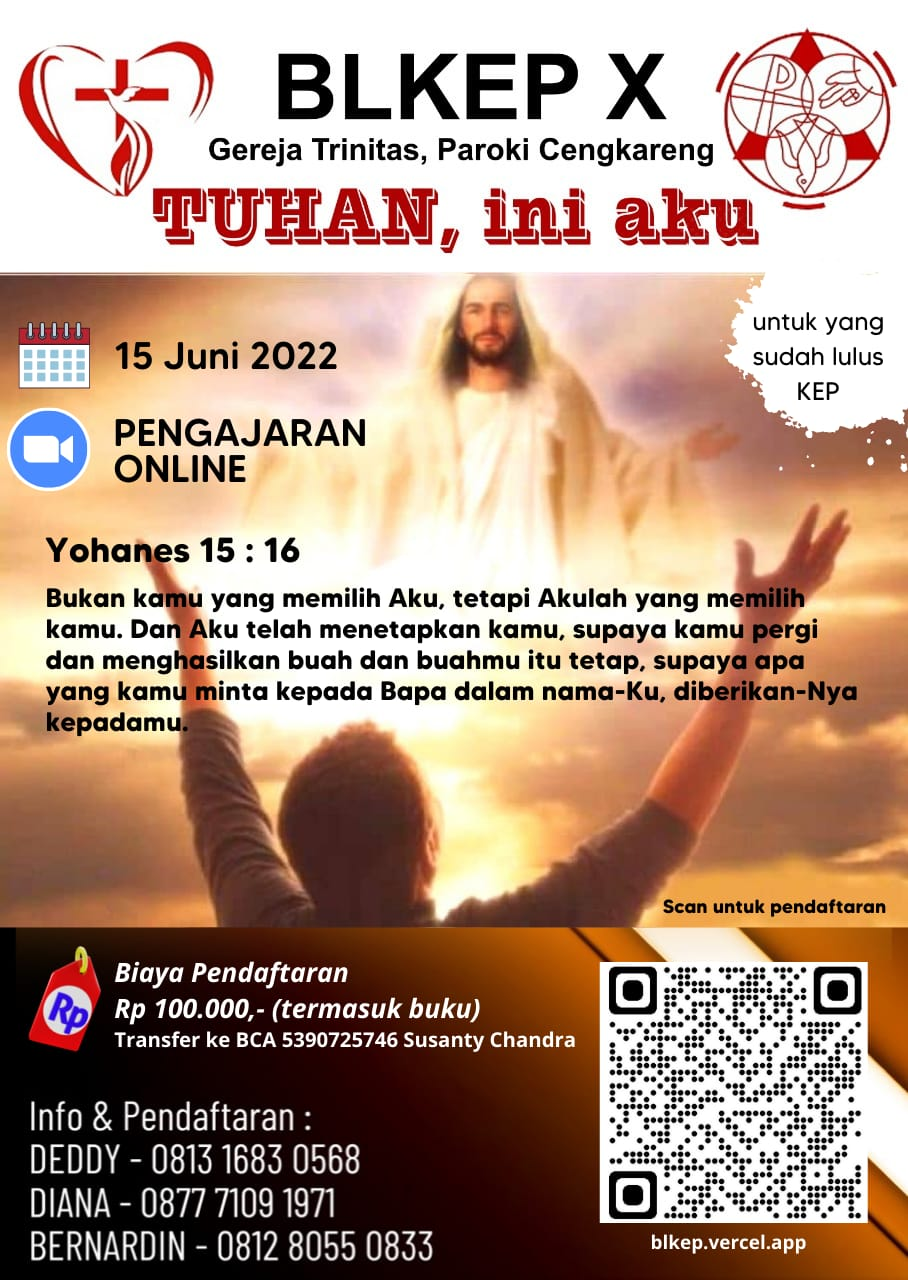
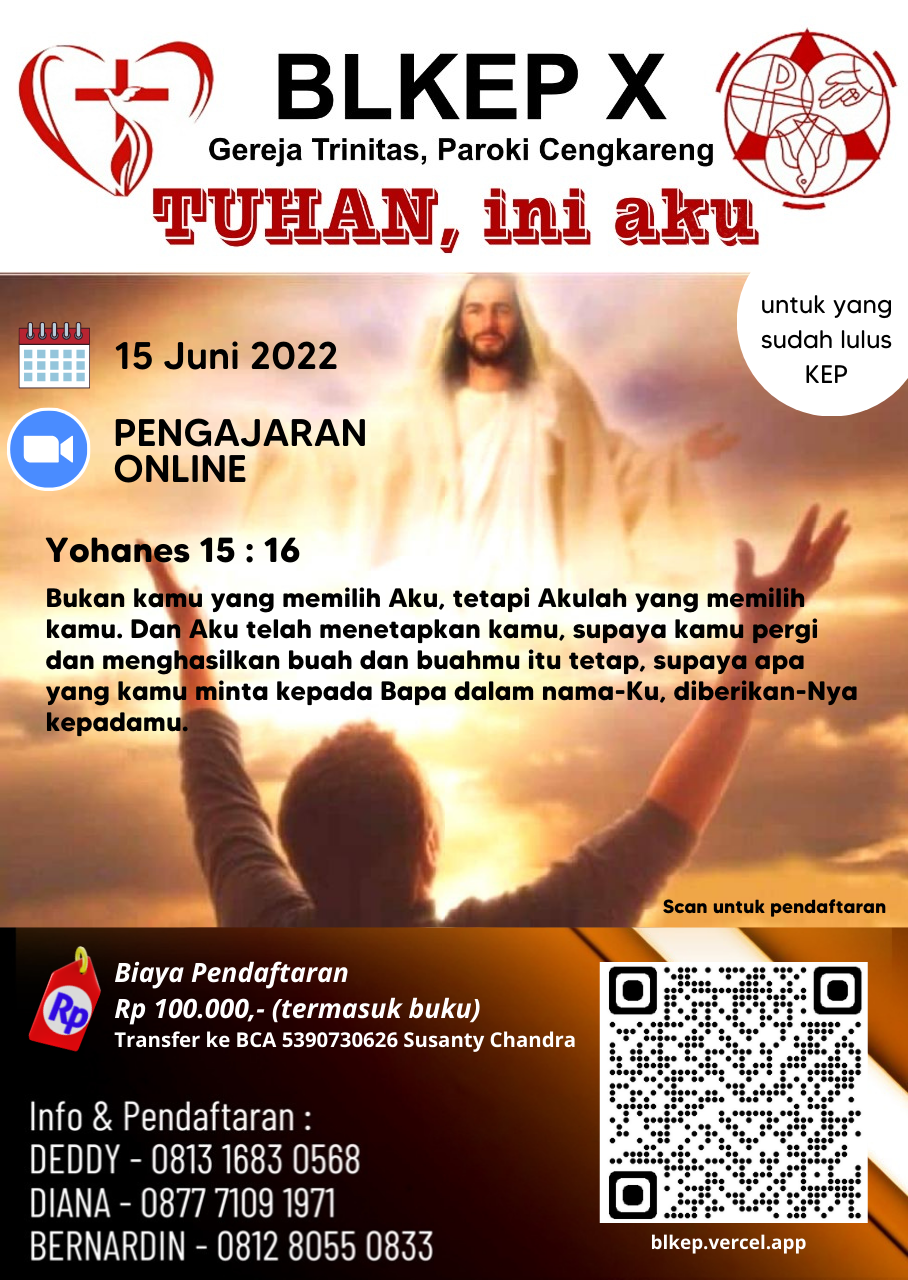
ralat norek and poster

diff --git a/src/components/Sections/About.jsx b/src/components/Sections/About.jsx
@@ -156,7 +156,7 @@ export default function About() {
               </h2>
               <AccordionPanel pb={4}>
                 Biaya pengajaran BLKEP sebesar <b> Rp 100.000,-</b>. Pembayaran
-                ditransfer ke <b>BCA 5390725746 an SUSANTY CHANDRA</b>.
+                ditransfer ke <b>BCA 5390730626 an SUSANTY CHANDRA</b>.
               </AccordionPanel>
             </AccordionItem>
             <AccordionItem>

diff --git a/src/components/Sections/Contact.jsx b/src/components/Sections/Contact.jsx
@@ -39,7 +39,7 @@ export default function Contact() {
             style={{ color: "#0000fa" }}
           >
             *Jika form di bawah tidak muncul, klik Link Pendaftaran di sini.
-            Pembayaran ditransfer ke <b>BCA 5390725746 an SUSANTY CHANDRA</b>
+            Pembayaran ditransfer ke <b>BCA 5390730626 an SUSANTY CHANDRA</b>
           </a>
 
           <div
